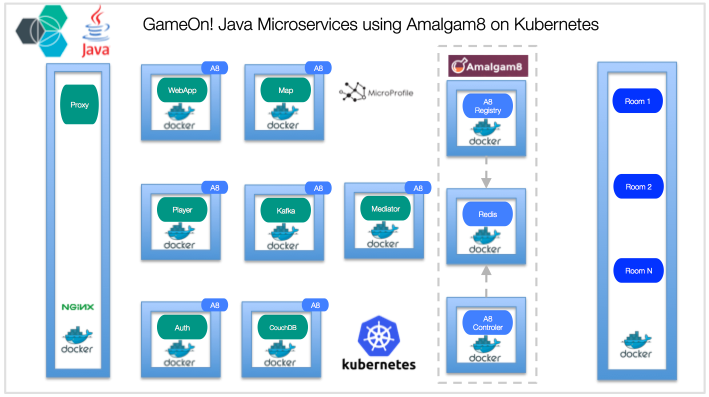
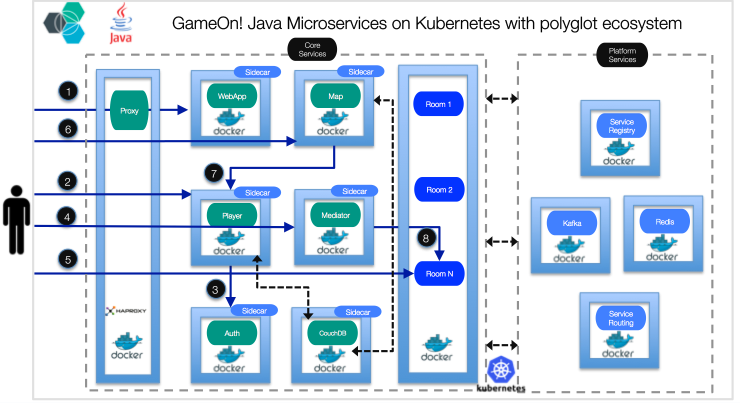
references to polyglot services and architecture diagram

diff --git a/README.md b/README.md
@@ -2,9 +2,9 @@
 
 # GameOn! Java Microservices deployment on Kubernetes Cluster
 
-This project demonstrates deployment of a Microservices based application [Game On!]() on to Kubernetes cluster. Game On! is a throwback text-based adventure built to help you explore microservice architectures and related concepts. GameOn! users start by creating a simple room, the building block of any adventure game. A user can create in text a simple room in any one of various languages in just a few minutes.
+This code demonstrates deployment of a Microservices based application [Game On!]() on to Kubernetes cluster which exists together with a polyglot ecosystem. Game On! is a throwback text-based adventure built to help you explore microservice architectures and related concepts. GameOn! deployment has two sets of microservice, core and platform. The core microservices are written in Java, coexisting with other polyglot microservices. In addition, there are platform services, which provide service discovery, registration and routing for different microservices. All run in in Docker containers managed by Kubernetes Cluster. 
 
-There are several microservices used in this app
+![Twitter](images/gameon-microservices.png)
 
 ### Core MicroServices:
 
